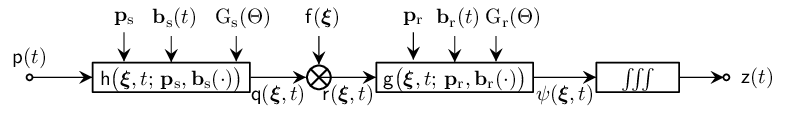
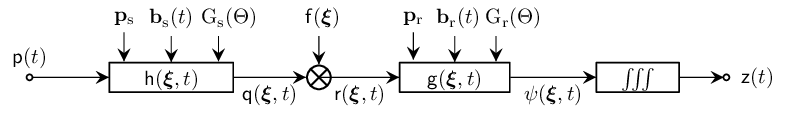
UPDATE statdirectional BD, symbols

diff --git a/docs/src/stationaryDirectionSource/stationaryDirSource.md b/docs/src/stationaryDirectionSource/stationaryDirSource.md
@@ -5,25 +5,33 @@
 | $\mathbf{b}_\mathrm{s}(t)$        | vector function of time|  time-varying source beam center   |
 | $\mathbf{b}_\mathrm{r}(t)$        | vector function of time|  time-varying receiver beam center   |
 | $\Theta(t)$     | scalar function of time    | angle relative to time-varying beam center |
+| $\angle(\bm{u},\bm{v})$     | operator          | returns the angle between two vectors |
 | $\mathrm{G}_\mathrm{s}(\Theta)$   | scalar function of angle  |  Gain of the source antenna |
 | $\mathrm{G}_\mathrm{r}(\Theta)$   | scalar function of angle  |  Gain of the receiver antenna |
 | $\mathrm{D}_\mathrm{s}\big(\bm{\xi};\,{\mathbf{p}_\mathrm{s},\mathbf{b}_\mathrm{s}(\cdot)}\big)$   | scalar function of position |  directivity of source |
 | $\mathrm{D}_\mathrm{r}\big(\bm{\xi};\,{\mathbf{p}_\mathrm{r},\mathbf{b}_\mathrm{r}(\cdot)}\big)$   | scalar function of position |  directivity of receiver |
-| $\mathsf{h}\big(\bm{\xi},t;\,{\mathbf{p}_\mathrm{s},\mathbf{b}_\mathrm{s}(\cdot)}\big)$       |  scalar function of position and time  | LTI impulse response from    $\mathbf{p}_\mathrm{s}$ to  $\bm{\xi}$ |
-| $\mathsf{g}(\bm{\xi},t;\,{\mathbf{p}_\mathrm{r},\mathbf{b}_\mathrm{r}(\cdot)})$   |  scalar function of position and time  | LTI impulse response from    $\bm{\xi}$ to $\mathbf{p}_\mathrm{r}$ |
+| $\mathsf{h}\big(\bm{\xi},t;\,{\mathbf{p}_\mathrm{s},\mathbf{b}_\mathrm{s}(\cdot),\mathrm{G}_\mathrm{s}(\cdot)}\big)$       |  scalar function of position and time  | LTI impulse response from    $\mathbf{p}_\mathrm{s}$ to  $\bm{\xi}$ |
+| $\mathsf{g}(\bm{\xi},t;\,{\mathbf{p}_\mathrm{r},\mathbf{b}_\mathrm{r}(\cdot),\mathrm{G}_\mathrm{r}(\cdot)})$   |  scalar function of position and time  | LTI impulse response from    $\bm{\xi}$ to $\mathbf{p}_\mathrm{r}$ |
 
 ![](https://raw.githubusercontent.com/NMSU-ISA/LTVsystems/main/docs/src/assets/Stationary_Directional_Model_BD.png)
 
 
 The LTI impulse response from $\mathbf{p}_\mathrm{s}$ to  $\bm{\xi}$ is given by
 
-$\mathsf{h}\big(\bm{\xi},t;\,{\mathbf{p}_\mathrm{s},\mathbf{b}_\mathrm{s}(\cdot)}\big) = \mathrm{D}_\mathrm{s}\big(\bm{\xi};\,{\mathbf{p}_\mathrm{s},\mathbf{b}_\mathrm{s}(\cdot)}\big)
+$\mathsf{h}\big(\bm{\xi},t;\,{\mathbf{p}_\mathrm{s},\mathbf{b}_\mathrm{s}(\cdot),\mathrm{G}_\mathrm{s}(\cdot)}\big) = \mathrm{D}_\mathrm{s}\big(\bm{\xi};\,{\mathbf{p}_\mathrm{s},\mathbf{b}_\mathrm{s}(\cdot)}\big)
 \mathsf{A}\left(\frac{\|\bm{\xi}-\mathbf{p}_\mathrm{s}\|}
 {\mathrm{c}}\right) \delta\left(t-\frac{\|\bm{\xi}-\mathbf{p}_\mathrm{s}\|}{\mathrm{c}}\right).$
 
+where $\mathrm{D}_\mathrm{s}\left(\bm{\xi};\,{\mathbf{p}_\mathrm{s},\mathbf{b}_\mathrm{s}(\cdot)}\right)$ is the directional gain defined by 
+
+$\mathrm{D}_\mathrm{s}\left(\bm{\xi};\,\textcolor{myLightSlateGrey}
+{\mathbf{p}_\mathrm{s},\mathbf{b}_\mathrm{s}(\cdot)}\right)= \mathrm{G}_\mathrm{s}
+\left(∠[\,\mathbf{b}(\cdot)\,,\,\bm{\xi}-\mathbf{p}_\mathrm{s}\,]\right).$
+
+The signal observed at position $\bm{\xi}$ and time $t$ due to the source emitting from position $\mathbf{p}_\mathrm{s}$ is given as
 ```math
 \begin{aligned}
-\mathsf{q}(\bm{\xi},t)  &= \mathsf{p}(t) \overset{t}{*} \mathsf{h}\big(\bm{\xi},t;\,{\mathbf{p}_\mathrm{s},\mathbf{b}_\mathrm{s}(\cdot)}\big) \\
+\mathsf{q}(\bm{\xi},t)  &= \mathsf{p}(t) \overset{t}{*} \mathsf{h}\big(\bm{\xi},t;\,{\mathbf{p}_\mathrm{s},\mathbf{b}_\mathrm{s}(\cdot),\mathrm{G}_\mathrm{s}(\cdot)}\big) \\
                &=\mathrm{D}_\mathrm{s}\big(\bm{\xi};\,{\mathbf{p}_\mathrm{s},\mathbf{b}_\mathrm{s}(\cdot)}\big)
                \mathsf{A}\left(\frac{\|\bm{\xi}-\mathbf{p}_\mathrm{s}\|}
                {\mathrm{c}}\right) \mathsf{p}\left(t-\frac{\|\bm{\xi}-\mathbf{p}_\mathrm{s}\|}{\mathrm{c}}\right).
@@ -36,191 +44,27 @@ $\mathsf{r}(\bm{\xi},t) = \mathsf{f}(\bm{\xi}) \mathsf{q}(\bm{\xi},t).$
 
 The LTI impulse response from an arbitrary position $\bm{\xi}$ to the receiver at position $\mathbf{p}_\mathrm{r}$ is given by
 
-$\mathsf{g}\big(\bm{\xi},t;\,{\mathbf{p}_\mathrm{r}}\big) = \mathsf{A}\left(\frac{\|\mathbf{p}_\mathrm{r}-\bm{\xi}\|}{\mathrm{c}}\right) \delta\left(t-\frac{\|\mathbf{p}_\mathrm{r}-\bm{\xi}\|}{\mathrm{c}}\right).$
+$\mathsf{g}\big(\bm{\xi},t;\,{\mathbf{p}_\mathrm{r},\mathbf{b}_\mathrm{r}(\cdot),\mathrm{G}_\mathrm{r}(\cdot)}\big) = \mathsf{A}\left(\frac{\|\mathbf{p}_\mathrm{r}-\bm{\xi}\|}{\mathrm{c}}\right) \delta\left(t-\frac{\|\mathbf{p}_\mathrm{r}-\bm{\xi}\|}{\mathrm{c}}\right).$
+
+where $\mathrm{D}_\mathrm{r}\left(\bm{\xi};\,{\mathbf{p}_\mathrm{r},\mathbf{b}_\mathrm{r}(\cdot)}\right)$ is the directional gain defined by 
+
+$\mathrm{D}_\mathrm{r}\left(\bm{\xi};\,\textcolor{myLightSlateGrey}
+{\mathbf{p}_\mathrm{r},\mathbf{b}_\mathrm{r}}\right)= \mathrm{G}_\mathrm{r}
+\left(∠[\,\mathbf{b}(\cdot)\,,\,\bm{\xi}-\mathbf{p}_\mathrm{r}\,]\right).$
 
 The signal observed at $\mathbf{p}_\mathrm{r}$ due to the reflection from the
 position $\bm{\xi}$ is given by
 
 ```math
 \begin{aligned}
-\mathsf{\psi}(\bm{\xi},t) &= \mathsf{r}(\bm{\xi},t) \overset{t}{*} \mathsf{g}\big(\bm{\xi},t;\,{\mathbf{p}_\mathrm{r}}\big) \\
+\mathsf{\psi}(\bm{\xi},t) &= \mathsf{r}(\bm{\xi},t) \overset{t}{*} \mathsf{g}\big(\bm{\xi},t;\,{\mathbf{p}_\mathrm{r},\mathbf{b}_\mathrm{r}(\cdot),\mathrm{G}_\mathrm{r}(\cdot)}\big) \\
                  &= \mathsf{A}\left(\frac{\|\mathbf{p}_\mathrm{r}-\bm{\xi}\|}{\mathrm{c}}\right) \mathsf{r}\left(\bm{\xi},t-\frac{\|\mathbf{p}_\mathrm{r}-\bm{\xi}\|}{\mathrm{c}}\right).
 \end{aligned}
 ```
 
-## Scenario A [Single pulse, single reflector, transmitter and receiver at same location]
-
-### Scenario Assumptions
-
-* single stationary directional source with time-varying beam center
-* single stationary receiver at same location as the source
-* single stationary ideal point reflector
-* the source emits a pulse
 
 
-### Forward Modeling
-
-For scenario A, we provided the position of the stationary direction source $𝐩ₛ$, with time-varying beam center $𝐛(t)$, the stationary direction receiver's position $𝐩ᵣ$ being at the same location $(𝐩ₛ=𝐩ᵣ)$, the transmitted signal $\mathsf{p}(t)$, and an ideal point reflector $\bm{\xi}_0$.
-
-Now the expression for the reflector function is given by
-
-$\mathsf{f}(\bm{\xi}) = \mathsf{\alpha}_0 \delta(\bm{\xi} - \bm{\xi}_0).$
-
-We compute the reflection due to the directional source as follows
-
-$\mathsf{r}(\bm{\xi},t) = \mathsf{\alpha}_0 \delta(\bm{\xi} - \bm{\xi}_0)
-\mathrm{D}_\mathrm{s}\big(\bm{\xi};\,{\mathbf{p}_\mathrm{s},\mathbf{b}_\mathrm{s}(\cdot)}\big)
-\mathsf{A}\left(\frac{\|\bm{\xi}-\mathbf{p}_\mathrm{s}\|}
-{\mathrm{c}}\right) \mathsf{p}\left(t-\frac{\|\bm{\xi}-\mathbf{p}_\mathrm{s}\|}{\mathrm{c}}\right).$
-
-Finally, the closed form expression of the observed signal, $\mathsf{z}(t)$ with $(𝐩ₛ=𝐩ᵣ)$ is given by
-
-$\mathsf{z}(t) = \mathsf{\alpha}_0 \mathrm{D}_
-\mathrm{s}\big(\bm{\xi}_0;\,{\mathbf{p}_\mathrm{s},
-\mathbf{b}_\mathrm{s}(\cdot)}\big)\mathsf{A}^2
-\left(\frac{\|\mathbf{p}_\mathrm{r}-\bm{\xi}_0\|}
-{\mathrm{c}}\right)\mathsf{p}\left(t -2\frac{\|\mathbf{p}_\mathrm{r}-\bm{\xi}_0\|}{\mathrm{c}}\right).$
-
-```julia
-using LTVsystems
-using Plots
-tₚ = 1.0e-06 
-𝐩ₛ =  [0.0, 0.0]
-𝐩ᵣ =  𝐩ₛ
-p(t) = δn(t-tₚ,1.0e-07)
-𝐛(t) = [cos(2π*10*(t-tₚ)),0.0]/(norm(cos(2π*10*(t-tₚ))))
-G(θ) = 𝒩ᵤ(θ, μ=0.0, σ=π/64)
-q = STATsourceD(𝐩ₛ,p,𝐛,G)
-α₀ = -0.7; 𝛏₀ = [0.2c*T,0.0]
-r = pointReflector(𝛏₀,α₀,q)
-z = LTIreceiverO([r],𝐩ᵣ)
-t=0.0:1.0e-08:25.0e-06
-p1 = plot(t,p, xlab="time (sec)", ylab="p(t)", legend=:false)
-p2 = plot( t, z(t),ylims=(minimum(z(t)),maximum(z(t))), xlab="time (sec)", ylab="z(t)", legend=:false)
-plot(p1,p2,layout=(2,1))
-```
-![](https://raw.githubusercontent.com/NMSU-ISA/LTVsystems/main/docs/src/assets/scenarioA_STATDirsignal.png)
-
-### Inverse Modeling
-
-Given the scenario A assumptions, we obtained the received signal, $\mathsf{z}(t)$. Now we can estimate the reflector function by considering the transmitted signal as follows 
-
-$\mathsf{p}(t)=δ(t-\mathrm{t_p})$ 
-
-$\hat{\mathsf{f}}(\bm{\xi}) = \dfrac{\mathsf{z}\left(\mathrm{t_p}+\frac{2\|\bm{\xi}-\mathbf{p}_\mathrm{r}\|}{\mathrm{c}}\right)\mathrm{D}_\mathrm{s}\left(\bm{\xi};\,{\mathbf{p}_\mathrm{s},\mathbf{b}_\mathrm{s}(\mathrm{t_p})}\right)}
-{\mathsf{A}^2\big(\frac{\|\bm{\xi}-\mathbf{p}_\mathrm{r}\|}{\mathrm{c}}\big) }.$
-
-```julia
-using LTVsystems
-using Plots
-tₚ = 1.0e-06 
-𝐩ₛ =  [0.0, 0.0]
-𝐩ᵣ =  𝐩ₛ
-p(t) = δn(t-tₚ,1.0e-07)
-𝐛(t) = [cos(2π*10*(t-tₚ)),0.0]/(norm(cos(2π*10*(t-tₚ))))
-G(θ) = 𝒩ᵤ(θ, μ=0.0, σ=π/64)
-q = STATsourceD(𝐩ₛ,p,𝐛,G)
-α₀ = -0.7; 𝛏₀ = [0.2c*T,0.0]
-r = pointReflector(𝛏₀,α₀,q)
-z = LTIreceiverO([r],𝐩ᵣ)
-Dₛ(ξ::Vector{Float64}) = G(angleBetween(𝐛(tₚ), ξ.-𝐩ₛ))
-f(ξ::Vector{Float64}) = (z(tₚ.+2(norm(ξ-𝐩ₛ))/c).*Dₛ(ξ))/
-                        (A(norm(ξ-𝐩ₛ)/c))^2
-inversePlot2D([q],[r],[z],f)
-```
-![](https://raw.githubusercontent.com/NMSU-ISA/LTVsystems/main/docs/src/assets/scenarioA_STATDirsimulation.png)
-
-
-## Scenario B [Single pulse, single reflector, transmitter and receiver at different location]
-
-### Scenario Assumptions
-
-* single stationary directional source with time-varying beam center
-* single stationary receiver
-* single stationary ideal point reflector
-* the source emits a pulse
-
-
-### Forward Modeling
-
-For scenario B, we provided the position of the stationary direction source $𝐩ₛ$, with time-varying beam center $𝐛(t)$, the stationary direction receiver's position $𝐩ᵣ$, the transmitted signal $\mathsf{p}(t)$, and an ideal point reflector $\bm{\xi}_0$.
-
-Now the expression for the reflector function is given by
-
-$\mathsf{f}(\bm{\xi}) = \mathsf{\alpha}_0 \delta(\bm{\xi} - \bm{\xi}_0).$
-
-We compute the reflection due to the directional source as follows
-
-$\mathsf{r}(\bm{\xi},t) = \mathsf{\alpha}_0 \delta(\bm{\xi} - \bm{\xi}_0)
-\mathrm{D}_\mathrm{s}\big(\bm{\xi};\,{\mathbf{p}_\mathrm{s},\mathbf{b}_\mathrm{s}(\cdot)}\big)
-\mathsf{A}\left(\frac{\|\bm{\xi}-\mathbf{p}_\mathrm{s}\|}
-{\mathrm{c}}\right) \mathsf{p}\left(t-\frac{\|\bm{\xi}-\mathbf{p}_\mathrm{s}\|}{\mathrm{c}}\right).$
-
-Finally, the closed form expression of the observed signal, $\mathsf{z}(t)$ is given by
-
-$\mathsf{z}(t) = \mathsf{\alpha}_0 \mathrm{D}_
-\mathrm{s}\big(\bm{\xi}_0;\,{\mathbf{p}_\mathrm{s},
-\mathbf{b}_\mathrm{s}(\cdot)}\big)\mathsf{A}\left(\frac{\|\mathbf{p}_\mathrm{r}-\bm{\xi}_0\|}{\mathrm{c}}\right)
-\mathsf{A}\left(\frac{\|\bm{\xi}_0-
-\mathbf{p}_\mathrm{s}\|}{\mathrm{c}}\right) \mathsf{p}\left(t-
-\frac{\|\mathbf{p}_\mathrm{r}-\bm{\xi}_0\|+\|\bm{\xi}_0-
-\mathbf{p}_\mathrm{s}\|}{\mathrm{c}}\right).$
-
-```julia
-using LTVsystems
-using Plots
-tₚ = 1.0e-06 
-𝐩ₛ =  [0.1c*T, 0.0]
-𝐩ᵣ =  [-0.1c*T, 0.0]
-p(t) = δn(t-tₚ,1.0e-07)
-𝐛(t) = [cos(2π*10*(t-tₚ)),0.0]/(norm(cos(2π*10*(t-tₚ))))
-G(θ) = 𝒩ᵤ(θ, μ=0.0, σ=π/64)
-q = STATsourceD(𝐩ₛ,p,𝐛,G)
-α₀ = -0.7; 𝛏₀ = [0.2c*T,0.0]
-r = pointReflector(𝛏₀,α₀,q)
-z = LTIreceiverO([r],𝐩ᵣ)
-t=0.0:1.0e-08:25.0e-06
-p1 = plot(t,p, xlab="time (sec)", ylab="p(t)", legend=:false)
-p2 = plot( t, z(t),ylims=(minimum(z(t)),maximum(z(t))), xlab="time (sec)", ylab="z(t)", legend=:false)
-plot(p1,p2,layout=(2,1))
-```
-![](https://raw.githubusercontent.com/NMSU-ISA/LTVsystems/main/docs/src/assets/scenarioB_STATDirsignal.png)
-
-
-### Inverse Modeling
-
-Given the scenario B assumptions, we obtained the received signal, $\mathsf{z}(t)$. Now we can estimate the reflector function by considering the transmitted signal as follows 
-
-$\mathsf{p}(t)=δ(t-\mathrm{t_p})$ 
-
-$\hat{\mathsf{f}}(\bm{\xi}) =\dfrac{\mathsf{z}\left(\mathrm{t_p}+\frac{\|\mathbf{p}_\mathrm{r}-
-\bm{\xi}\|+\|\bm{\xi}-\mathbf{p}_\mathrm{s}\|}
-{\mathrm{c}}  \right)\mathrm{D}_\mathrm{s}\left(\bm{\xi};\,{\mathbf{p}_\mathrm{s},\mathbf{b}_\mathrm{s}(\mathrm{t_p})}\right)}{\mathsf{A}\big(\frac{\|\bm{\xi}-\mathbf{p}_\mathrm{s}\|}{\mathrm{c}}\big)    
-\mathsf{A}\big(\frac{\|\mathbf{p}_\mathrm{r}-\bm{\xi}\|}{\mathrm{c}}\big)}
-.$
-
-```julia
-using LTVsystems
-using Plots
-tₚ = 1.0e-06 
-𝐩ₛ =  [0.1c*T, 0.0]
-𝐩ᵣ =  [-0.1c*T, 0.0]
-p(t) = δn(t-tₚ,1.0e-07)
-𝐛(t) = [cos(2π*10*(t-tₚ)),0.0]/(norm(cos(2π*10*(t-tₚ))))
-G(θ) = 𝒩ᵤ(θ, μ=0.0, σ=π/64)
-q = STATsourceD(𝐩ₛ,p,𝐛,G)
-α₀ = -0.7; 𝛏₀ = [0.2c*T,0.0]
-r = pointReflector(𝛏₀,α₀,q)
-z = LTIreceiverO([r],𝐩ᵣ)
-Dₛ(ξ::Vector{Float64}) = G(angleBetween(𝐛(tₚ), ξ.-𝐩ₛ))
-f(ξ::Vector{Float64}) = (z(tₚ.+(norm(ξ-𝐩ₛ) .+ norm(𝐩ᵣ-ξ))./c).*Dₛ(ξ))/(A(norm(ξ-𝐩ₛ)/c).*A(norm(𝐩ᵣ-ξ)/c))
-inversePlot2D([q],[r],[z],f)
-```
-![](https://raw.githubusercontent.com/NMSU-ISA/LTVsystems/main/docs/src/assets/scenarioB_STATDirsimulation.png)
-
-
-
-## Scenario C [Pulse train, multiple reflector, transmitter and receiver at same location]
+## Scenario A [Pulse train, multiple reflector, transmitter and receiver at same location]
 
 ### Scenario Assumptions
 
@@ -232,7 +76,7 @@ inversePlot2D([q],[r],[z],f)
 
 ### Forward Modeling
 
-For scenario C, we provided the position of the stationary direction source $𝐩ₛ$, with time-varying beam center $𝐛(t)$, the stationary direction receiver's position $𝐩ᵣ$, being at the same location $(𝐩ₛ=𝐩ᵣ)$, the transmitted signal $\mathsf{p}(t)$, and multiple reflector say, N.
+For scenario A, we provided the position of the stationary direction source $𝐩ₛ$, with time-varying beam center $𝐛(t)$, the stationary direction receiver's position $𝐩ᵣ$, being at the same location $(𝐩ₛ=𝐩ᵣ)$, the transmitted signal $\mathsf{p}(t)$, and multiple reflector say, N.
 
 Now the expression for the reflector function is given by
 
@@ -286,7 +130,7 @@ plot(p1,p2,layout=(2,1))
 
 ### Inverse Modeling
 
-Given the scenario C assumptions, we obtained the received signal, $\mathsf{z}(t)$. Now we can estimate the reflector function by considering the transmitted signal as a pulse train as follows
+Given the scenario A assumptions, we obtained the received signal, $\mathsf{z}(t)$. Now we can estimate the reflector function by considering the transmitted signal as a pulse train as follows
 
 $\mathsf{p}(t)=∑_{k=1}^{M}δ(t-\mathrm{t_p}-(k-1)\mathrm{T})$ as follows
 
@@ -333,7 +177,7 @@ inversePlot2D([q],r,[z],g)
 
 
 
-## Scenario D (More General Case) [Pulse train, multiple reflector, transmitter and receiver at same location]
+## Scenario B (More General Case) [Pulse train, multiple reflector, transmitter and receiver at same location]
 
 ### Scenario Assumptions
 
@@ -408,7 +252,7 @@ inversePlot2D([q],r,[z],g)
 ![](https://raw.githubusercontent.com/NMSU-ISA/LTVsystems/main/docs/src/assets/scenarioD_STATDsimulation.png)
 
 
-## Scenario E [Pulse train, multiple reflector, transmitter and receiver at same location]
+## Scenario C [Pulse train, multiple reflector, transmitter and receiver at same location]
 
 ### Scenario Assumptions
 
